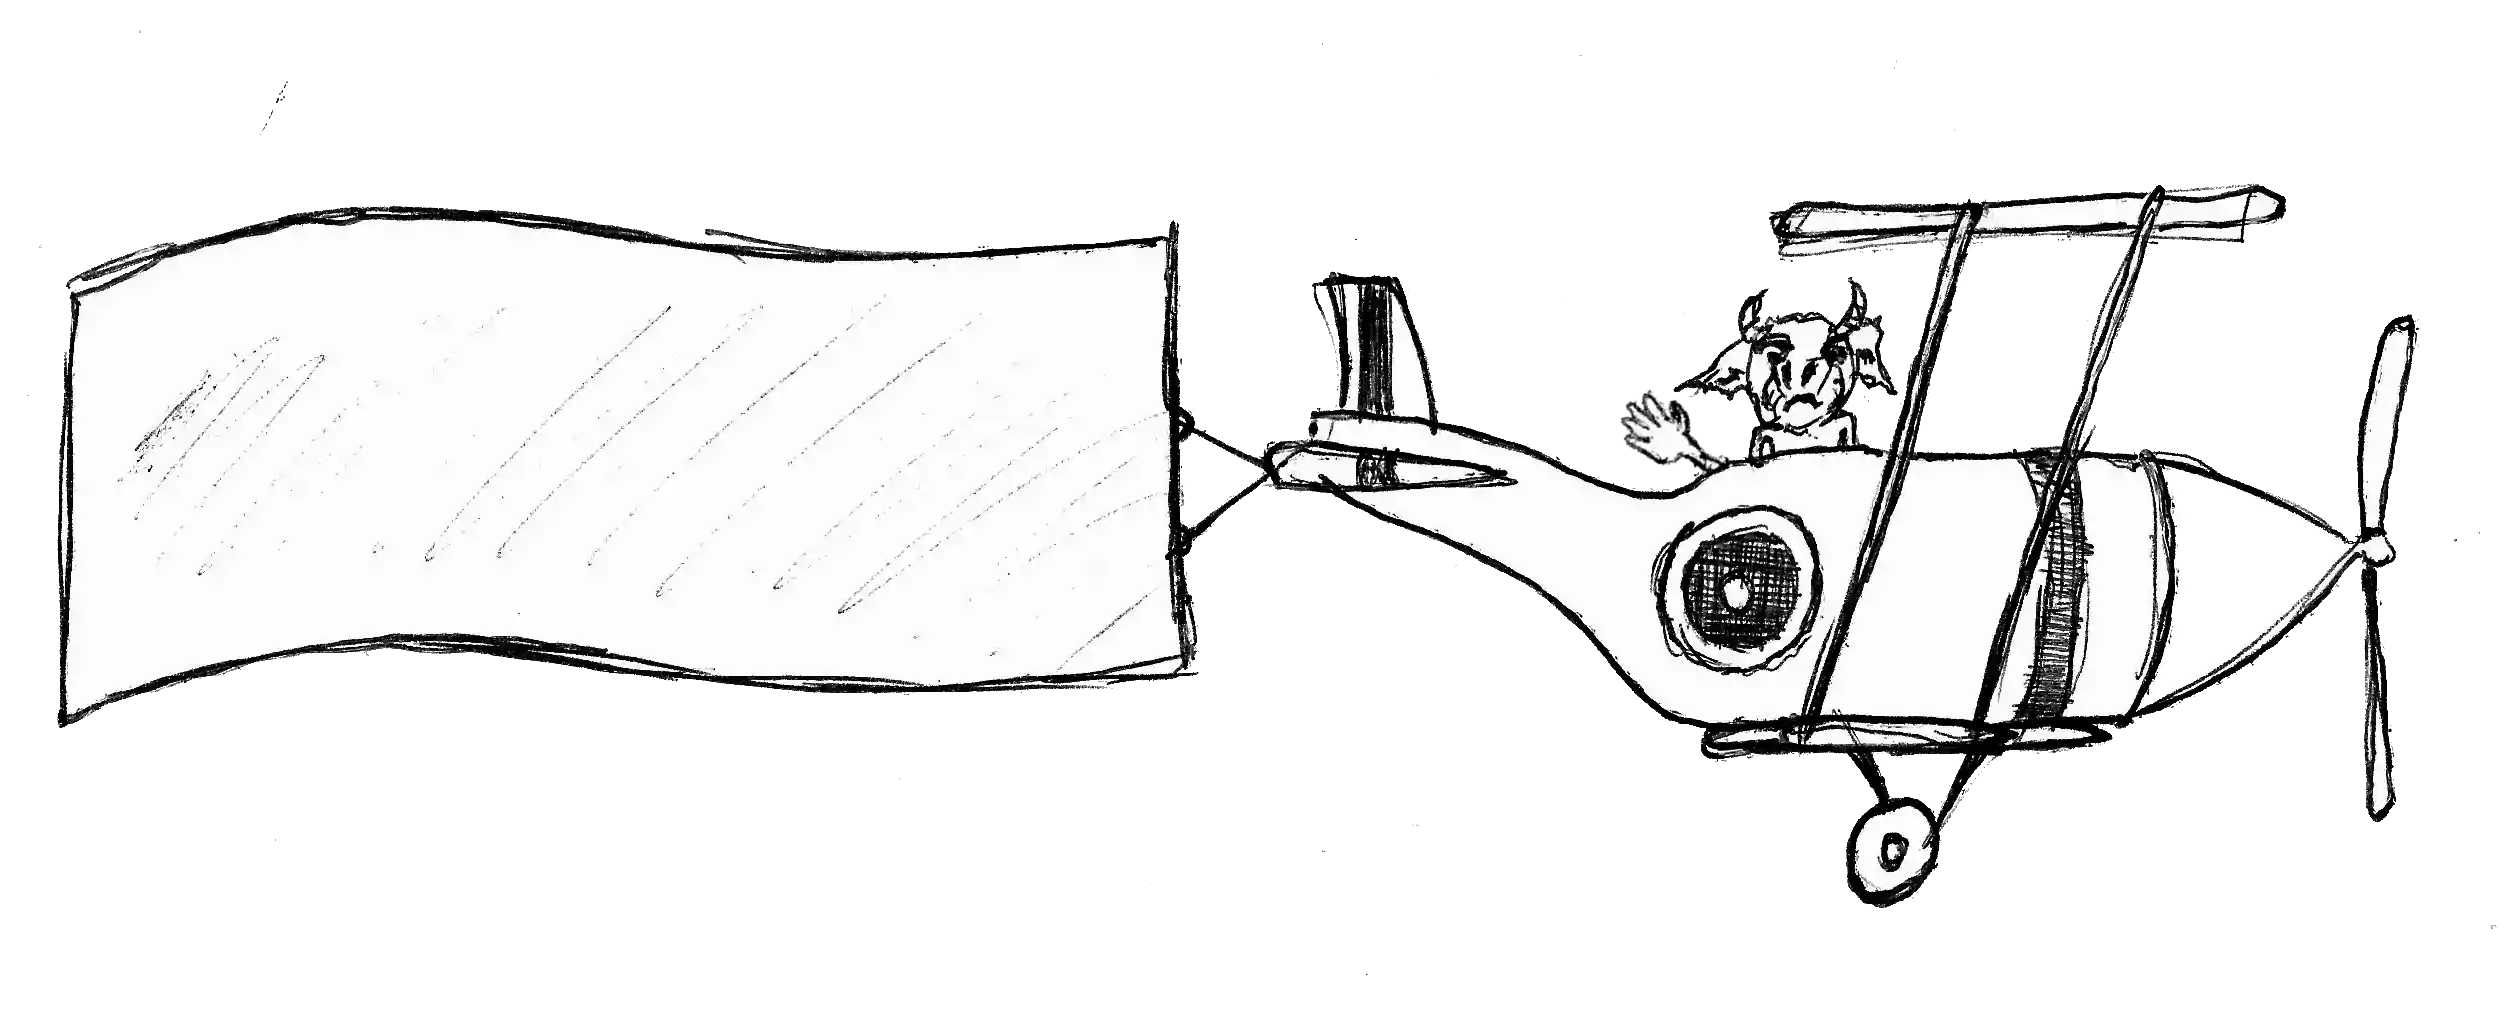
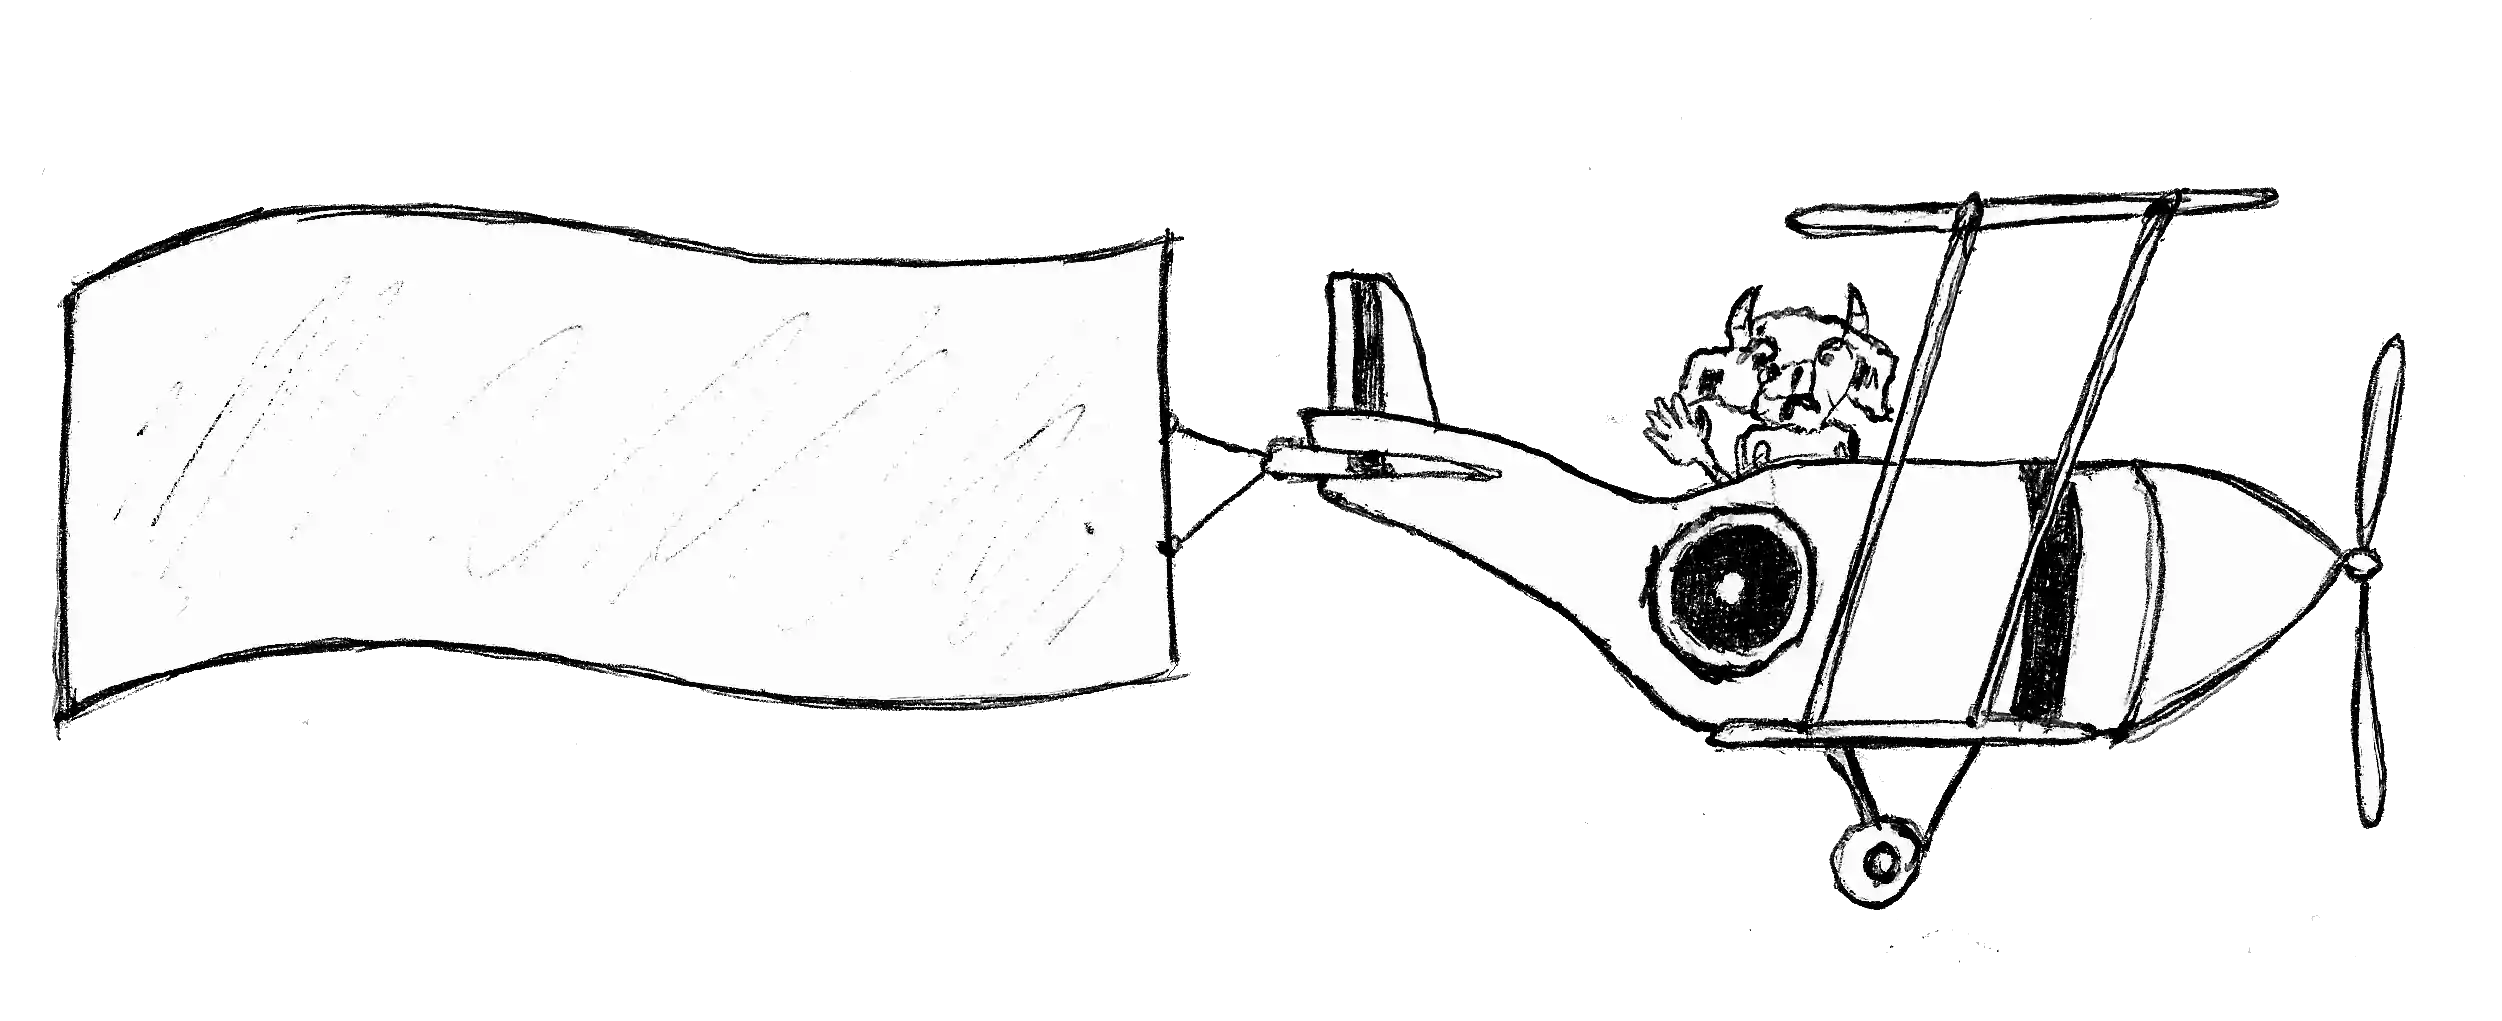
final changes for today

diff --git a/plane.js b/plane.js
@@ -1,0 +1,74 @@
+const plane = document.getElementById("plane")
+    console.log(plane)        
+
+  // the options aren't effecting it?
+let options = {
+    threshold: 0.0,
+    rootMargin: "0px 0px 100px 0px"
+}
+
+observer = new IntersectionObserver((activate, options) => {
+    activate.forEach((activated) => {
+
+        if (activated.isIntersecting) {
+        // if the image enters the viewport, watch the user's scroll...
+        window.onscroll = debounce(function() {
+                
+            margin = activated.target.style.marginLeft
+            startAmount = activated.target.offsetTop
+            endAmount = window.pageYOffset + window.innerHeight
+            finalAmount = endAmount - startAmount
+
+            // move the image by updating the margin by the amount scrolled
+            // if (margin <= "1000px") {
+                activated.target.style.marginLeft = `${finalAmount}px`
+            // } else {
+                // console.log("over the amount")
+            // }
+
+            // console.log(finalAmount + " final amount")
+            // console.log(margin + " margin")
+        //   console.log(plane)
+
+        })
+        }
+    })
+    })
+
+    //   call the function
+    observer.observe(plane)
+
+
+// stop the animation from running too much and wasting bandwidth
+function debounce(func, wait = 10, immediate = true) {
+    var timeout;
+    return function() {
+    var context = this, args = arguments;
+    var later = function() {
+        timeout = null;
+        if (!immediate) func.apply(context, args);
+    };
+    var callNow = immediate && !timeout;
+    clearTimeout(timeout);
+    timeout = setTimeout(later, wait);
+    if (callNow) func.apply(context, args);
+    };
+};
+
+// determine if user is scrolling up or down and reverse the image based on that
+
+// set a starting line to compare current position after user starts scrolling
+let scrollPos = 0
+let scrollingDown
+
+window.addEventListener('scroll', function(){
+    if ((document.body.getBoundingClientRect()).top > scrollPos) {
+        scrollingDown = false
+        document.getElementById("plane").style.transform = "scaleX(-1)"
+    } else {
+        scrollingDown = true
+        document.getElementById("plane").style.transform = "scaleX(1)"
+    }
+    scrollPos = (document.body.getBoundingClientRect()).top
+    // console.log(scrollingDown)
+})

diff --git a/illustrations.css b/illustrations.css
@@ -124,15 +124,15 @@
     z-index: 7;
     margin-bottom: 50vh;
 
-    animation: flap .5s ease-in-out infinite;
+    animation: flap .5s ease-in-out infinite, hoverpatrol 10s infinite;
 }
 
-    @keyframes orbit {
-        0% { margin-left: 0vw; z-index: 0; }
-        50% { margin-left: 70vw; transform: scaleX(-1); z-index: 7; }
-        60% { z-index: 7; }
-        90% { z-index: 7; }
-        100% { margin-left: 0vw; transform: scaleX(1); z-index: 0; }
+    @keyframes hoverpatrol {
+        0% { left: 0; transform: scaleX(1); }
+        20% { left: 30%; transform: scaleX(1); }
+        50% { left: 70%; transform: scaleX(-1); }
+        70% { left: 30%; transform: scaleX(-1); }
+        0% { left: 0; transform: scaleX(1); }
     }
 
     @keyframes flap {
@@ -161,26 +161,28 @@
         0% { background-image: url("media/bird_front_1.webp"); }
         25% { background-image: url("media/bird_front_3.webp"); }
         50% { background-image: url("media/bird_front_2.webp"); }
-        90% { background-image: url("media/bird_front_4.webp"); }
+        80% { background-image: url("media/bird_front_4.webp"); }
     }
 
 
 #plane {
-    width: 600px;
-    height: 300px;
-    background-image: url("media/banner_plane_1.webp");
+    width: 300px;
+    height: 100px;
+    background-image: url("media/plane_1.webp");
     background-size: contain;
     background-repeat: no-repeat;
 
+    margin-left: -20vw;
     position: relative;
     z-index: 0;
+    transition: transform .2s ease-in-out;
 
-    animation: plane .1s ease-in-out infinite;
+    animation: plane .4s infinite;
 }
 
     @keyframes plane {
-        0% { background-image: url("media/banner_plane_1.webp"); }
-        50% { background-image: url("media/banner_plane_2.webp"); }
+        0% { background-image: url("media/plane_1.webp"); }
+        50% { background-image: url("media/plane_2.webp"); }
     }
 
 /* end of initial descent clouds and such */
@@ -207,4 +209,15 @@
     @keyframes twitch {
         from { width: 100%; }
         to { width: 99.9%; }
+    }
+
+
+
+/* orbit, use for planets or something */
+    @keyframes orbit {
+        0% { margin-left: 0vw; z-index: 0; }
+        50% { margin-left: 70vw; transform: scaleX(-1); z-index: 7; }
+        60% { z-index: 7; }
+        90% { z-index: 7; }
+        100% { margin-left: 0vw; transform: scaleX(1); z-index: 0; }
     }

diff --git a/index.html b/index.html
@@ -27,7 +27,9 @@
 
         <div class="" id="front-bird"></div>
 
-        <div class="" id="plane"></div>
+        <div class="cloud_cluster">
+            <div class="plane" id="plane"></div>
+        </div>
 
         <!-- this is the general wrapper around the grid, the mascot, and all the elements that he falls past -->
         <div class="wrapper">
@@ -67,14 +69,14 @@
             <!-- the actual grid with the items that sort by the selected filter -->
             <ol class="portfolio_grid">
 
-                <li class="grid_item" data-category="Writing" id="item1">
+                <li class="grid_item" data-category="Music Animation" id="tear_your_heart" type="button" onClick="saySomething()">
                     <!-- <div class="grid_image">
                         <img src="https://source.unsplash.com/1600x900/?notebook" alt="notebook">
                     </div> -->
-                    <div class="grid_video">
-                        <iframe src="https://www.youtube.com/embed/vBA8jAXqwvM?rel=0" frameborder="0" allow="accelerometer; autoplay; encrypted-media; gyroscope; picture-in-picture" allowfullscreen></iframe>
+                    <div class="grid_video" type="button" onclick="saySomething()">
+                        <iframe type="button" onclick="saySomething()" src="https://www.youtube.com/embed/vBA8jAXqwvM?rel=0" frameborder="0" allow="accelerometer; autoplay; encrypted-media; gyroscope; picture-in-picture" allowfullscreen></iframe>
                     </div>
-                    <div class="grid_text">I'm A WRITING thing</div>
+                    <div class="grid_text" type="button" onclick="saySomething()">Tear Your Heart Apart (Lyric Video)</div>
                 </li>
 
                 <li class="grid_item" data-category="Music" id="item2">
@@ -182,6 +184,16 @@
 
         <!-- this is going to change the mascot depending on what is behind him -->
         <script src="hide.js"></script>
+        <!-- make the plane fly with scroll -->
+        <script src="plane.js"></script>
+
+        <script>
+
+            function saySomething() {
+                console.log('focussed')
+            }
+
+        </script>
 
     </body>
 </html>

diff --git a/main.css b/main.css
@@ -24,7 +24,7 @@ html, body {
 
 }
 
-A:visited {
+a:visited {
     text-decoration: none;
     color: black;
 }
@@ -113,7 +113,7 @@ ol {
     top: 20%;
     right: 20%;
 
-    border: 2px solid black;
+    border: 2px solid #252629;
     padding: .5%;
 }
 
@@ -302,9 +302,14 @@ grid item recipe:
 2. name them with unique, descriptive ids
  */
 
-#item1 {
+#tear_your_heart {
     grid-column: span 4;
     grid-row: span 3;
+}
+
+#tear_your_heart:focus {
+    grid-column: span 1;
+    grid-row: span 1;
 }
 
 #item2 {
